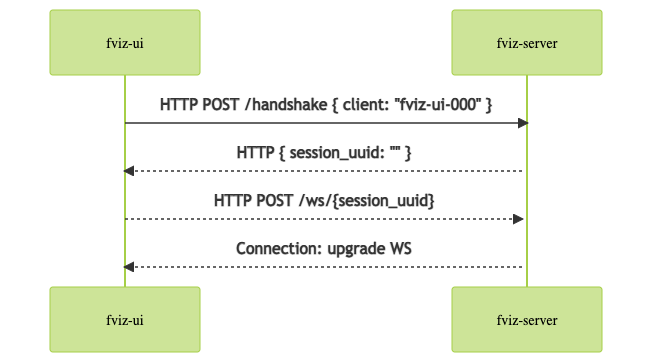
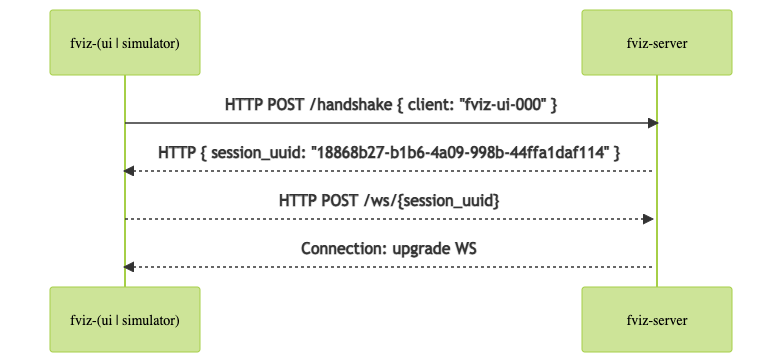
feat(fviz-simulator): init go project (#8)
* feat: init go module

* ci: added go CI jobs

* refactor: update documentation

* refactor: added fviz-simulator to root makefile

* refactor: update phony

diff --git a/packages/fviz-simulator/cmd/drone/main.go b/packages/fviz-simulator/cmd/drone/main.go
@@ -1,0 +1,7 @@
+package main
+
+import "fmt"
+
+func main() {
+	fmt.Println("drone")
+}

diff --git a/README.md b/README.md
@@ -45,7 +45,9 @@ make test package=<server|ui>
 - `docs/`: text and image assets for documentation
 - `packages/`:
   - `fviz-server/`: `rust` web server
-  - `fviz-ui`/: `react` client app
+  - `fviz-ui/`: `react` client app
+  - `fviz-simulator/`: `go` project to simulate devices/actors
+    - `cmd/drone/`: drone simulation app
 
 ## System communication
 
@@ -65,10 +67,10 @@ sequenceDiagram
 
 ```mermaid
 sequenceDiagram
-    fviz-ui->>+fviz-server: HTTP POST /handshake { client: "fviz-ui-000" }
-    fviz-server-->>fviz-ui: HTTP { session_uuid: "" }
-    fviz-ui-->>fviz-server: HTTP POST /ws/{session_uuid}
-    fviz-server-->>fviz-ui: Connection: upgrade WS
+    fviz-(ui|simulator)->>+fviz-server: HTTP POST /handshake { client: "fviz-ui-000" }
+    fviz-server-->>fviz-(ui|simulator): HTTP { session_uuid: "18868b27-b1b6-4a09-998b-44ffa1daf114" }
+    fviz-(ui|simulator)-->>fviz-server: HTTP POST /ws/{session_uuid}
+    fviz-server-->>fviz-(ui|simulator): Connection: upgrade WS
 ```
 
 ## Server
